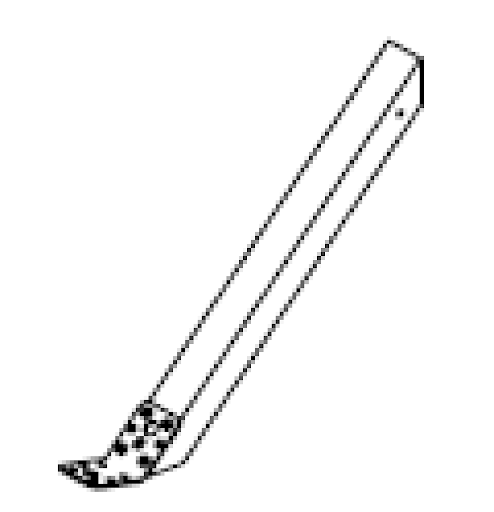
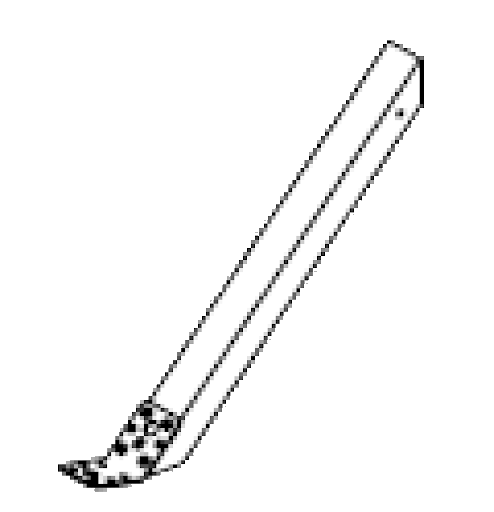
Убран фон на изображениях частей катапульты. Добавлены ссылки в запуск.

diff --git a/launch.rst b/launch.rst
@@ -1,7 +1,7 @@
 Запуск
 =========
 
-Чтобы запустить Геоскан Lite, последовательно выполните пункты инструкции
+Чтобы запустить Геоскан Lite, последовательно выполните пункты инструкции:
 
 
 1) `Зарядите АКБ`_ и убедитесь, что она исправно работает.
@@ -10,21 +10,22 @@
 4) `Соберите пусковую установку`_. Непосредственно пред запуском установите резиновые жгуты и натяните их.
 5) `Соберите БВС`_. Установите парашют.
 6) Установите и подключите АКБ в БВС. 
-
+7) Подключите разъем фотоаппарата к БВС. Включите фотоаппарат. Отформатируйте карту памяти в фотоаппарате. Установите фотоаппарат в ложемент и закрепите эластичным фиксатором. Закройте крышку фюзеляжа БВС и застегните три фиксатора. Снимите крышку объектива фотоаппарата
+8) Откройте полетное задание в Geoscan Planner. Запустите `мастер предстартовой подготовки`_. Убедитесь в успешном прохождении предстартовой подготовки.
+9) Натяните жгуты пусковой установки. Установите БВС на каретку.
+10) Нажмите на кнопку `Старт`_ в окне Geoscan Planner, чтобы перевести БВС в режим "Катапульта". Снимите предохранитель и потяните за спусковой шнур, чтобы запустить БВС.
 
 
 .. _Зарядите АКБ: charger.html#id4
 .. _Соберите пусковую установку: catapult.html#id3
 .. _Соберите БВС: uav.html#id3
-.. _Geoscan Planner: 
+.. _Geoscan Planner: planner.html#id2
 .. _разверните НСУ: nsu.html#id2
+.. _мастер предстартовой подготовки: planner.html#id11
+.. _Старт: planner.html#id12
 
 
 
 
 
 
-7) Подключите разъем фотоаппарата к БВС. Включите фотоаппарат. Отформатируйте карту памяти в фотоаппарате. Установите фотоаппарат в ложемент и закрепите эластичным фиксатором. Закройте крышку фюзеляжа БВС и застегните три фиксатора. Снимите крышку объектива фотоаппарата
-8) Откройте полетное задание в Geoscan Planner. Запустите мастер предстартовой подготовки и следуйте указаниям на экране. Убедитесь в успешном прохождении предстартовой подготовки.
-9) Натяните жгуты пусковой установки. Установите БВС на каретку.
-10) Нажмите на кнопку "Старт" в окне Geoscan Planner, чтобы перевести БВС в режим "Катапульта". Снимите предохранитель и потяните за спусковой шнур, чтобы запустить БВС.

diff --git a/uav.rst b/uav.rst
@@ -68,7 +68,7 @@
 -------------
 
 * Извлеките консоли крыла и фюзеляж из транспортировочного кейса.
-* Уложите парашют в соответствующий отсек в фюзеляже (порядок укладки см. в разделе Парашютная система).
+* Уложите парашют в соответствующий отсек в фюзеляже (порядок укладки см. в разделе **Парашютная система**).
 
 .. figure:: _static/_images/asmbl1.png
    :align: center

diff --git a/catapult.rst b/catapult.rst
@@ -17,13 +17,13 @@
     :width: 400
 
 .. |c6| image:: _static/_images/c6.png
-    :width: 100
+    :width: 400
 
 .. |c7| image:: _static/_images/c7.png
-    :width: 100
+    :width: 400
 
 .. |c8| image:: _static/_images/c8.png
-    :width: 100
+    :width: 400
 
 
 Узлы, детали и принадлежности
